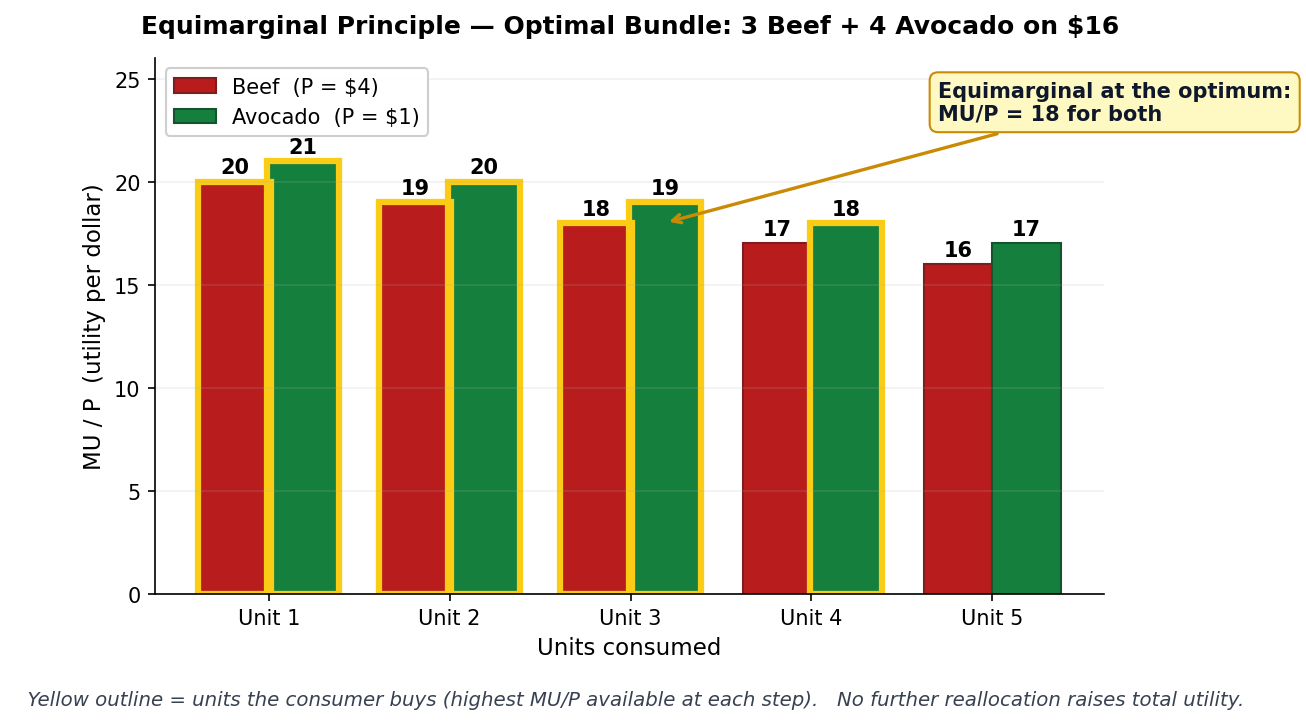
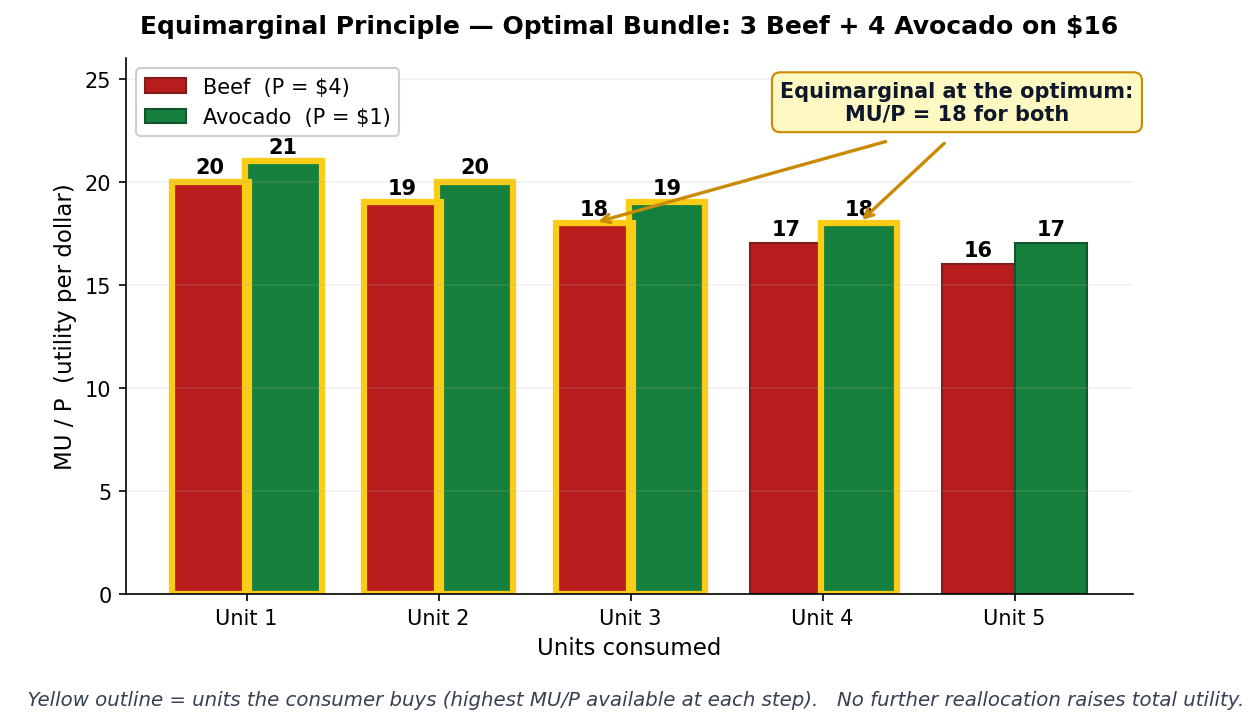
ch08: step-by-step fragments + arrow + readability fixes
1. Slide 57 (mu-per-dollar-tables) — 3-step reveal:
   step 1: beef MU/P column fills in
   step 2: avocado MU/P column fills in
   step 3: KEY METRIC callout appears

2. Slide 58 (mu-per-dollar-bundle) — 8-step reveal:
   pick badges 1-7 appear in MU/$ order (1st avo → 1st beef →
   2nd avo → 2nd beef → 3rd avo → 3rd beef → 4th avo), then the
   "Optimal Bundle" callout

3. Slide 61 (beef-avo equimarginal picture) — fixed annotation
   to point to BOTH the 3rd beef bar AND the 4th avocado bar
   (was pointing to only one). Both have MU/P = 18 = equimarginal.

4. Slide 63 (maya-you-try) — yellow "MU/P stream = ?" and
   "MU/P night = ?" header cells were rendering with the default
   white th text color → invisible on yellow bg. Added explicit
   color: #0f172a (dark slate) so students can read the prompt.

diff --git a/econ1116/ch08-consumer-choice/index.html b/econ1116/ch08-consumer-choice/index.html
@@ -2073,11 +2073,11 @@ The punchline — "variety in the middle" — previews two later concepts: (a) c
       <table style="width: 100%; border-collapse: collapse; font-family: 'SF Mono', Menlo, monospace; font-size: 12pt; background: #fff; box-shadow: 0 1px 3px rgba(0,0,0,0.08);">
         <thead><tr style="background: #fef2f2;"><th style="padding: 5px 8px; font-family: var(--body-font); font-weight: 700;">Q</th><th style="padding: 5px 8px; font-family: var(--body-font); font-weight: 700;">TU</th><th style="padding: 5px 8px; font-family: var(--body-font); font-weight: 700;">MU</th><th style="padding: 5px 8px; font-family: var(--body-font); font-weight: 700;">MU / P</th></tr></thead>
         <tbody>
-          <tr style="border-bottom: 1px solid var(--line-color);"><td style="text-align: center; padding: 6px;">1</td><td style="text-align: center; padding: 6px;">80</td><td style="text-align: center; padding: 6px;">80</td><td style="text-align: center; padding: 6px; color: #b91c1c; font-weight: 700;">80/4 = 20</td></tr>
-          <tr style="background: #fafafa; border-bottom: 1px solid var(--line-color);"><td style="text-align: center; padding: 6px;">2</td><td style="text-align: center; padding: 6px;">156</td><td style="text-align: center; padding: 6px;">76</td><td style="text-align: center; padding: 6px; color: #b91c1c; font-weight: 700;">76/4 = 19</td></tr>
-          <tr style="border-bottom: 1px solid var(--line-color);"><td style="text-align: center; padding: 6px;">3</td><td style="text-align: center; padding: 6px;">228</td><td style="text-align: center; padding: 6px;">72</td><td style="text-align: center; padding: 6px; color: #b91c1c; font-weight: 700;">72/4 = 18</td></tr>
-          <tr style="background: #fafafa; border-bottom: 1px solid var(--line-color);"><td style="text-align: center; padding: 6px;">4</td><td style="text-align: center; padding: 6px;">296</td><td style="text-align: center; padding: 6px;">68</td><td style="text-align: center; padding: 6px; color: #b91c1c; font-weight: 700;">68/4 = 17</td></tr>
-          <tr><td style="text-align: center; padding: 6px;">5</td><td style="text-align: center; padding: 6px;">360</td><td style="text-align: center; padding: 6px;">64</td><td style="text-align: center; padding: 6px; color: #b91c1c; font-weight: 700;">64/4 = 16</td></tr>
+          <tr style="border-bottom: 1px solid var(--line-color);"><td style="text-align: center; padding: 6px;">1</td><td style="text-align: center; padding: 6px;">80</td><td style="text-align: center; padding: 6px;">80</td><td class="fragment fade-in" data-fragment-index="1" style="text-align: center; padding: 6px; color: #b91c1c; font-weight: 700;">80/4 = 20</td></tr>
+          <tr style="background: #fafafa; border-bottom: 1px solid var(--line-color);"><td style="text-align: center; padding: 6px;">2</td><td style="text-align: center; padding: 6px;">156</td><td style="text-align: center; padding: 6px;">76</td><td class="fragment fade-in" data-fragment-index="1" style="text-align: center; padding: 6px; color: #b91c1c; font-weight: 700;">76/4 = 19</td></tr>
+          <tr style="border-bottom: 1px solid var(--line-color);"><td style="text-align: center; padding: 6px;">3</td><td style="text-align: center; padding: 6px;">228</td><td style="text-align: center; padding: 6px;">72</td><td class="fragment fade-in" data-fragment-index="1" style="text-align: center; padding: 6px; color: #b91c1c; font-weight: 700;">72/4 = 18</td></tr>
+          <tr style="background: #fafafa; border-bottom: 1px solid var(--line-color);"><td style="text-align: center; padding: 6px;">4</td><td style="text-align: center; padding: 6px;">296</td><td style="text-align: center; padding: 6px;">68</td><td class="fragment fade-in" data-fragment-index="1" style="text-align: center; padding: 6px; color: #b91c1c; font-weight: 700;">68/4 = 17</td></tr>
+          <tr><td style="text-align: center; padding: 6px;">5</td><td style="text-align: center; padding: 6px;">360</td><td style="text-align: center; padding: 6px;">64</td><td class="fragment fade-in" data-fragment-index="1" style="text-align: center; padding: 6px; color: #b91c1c; font-weight: 700;">64/4 = 16</td></tr>
         </tbody>
       </table>
     </div>
@@ -2086,16 +2086,16 @@ The punchline — "variety in the middle" — previews two later concepts: (a) c
       <table style="width: 100%; border-collapse: collapse; font-family: 'SF Mono', Menlo, monospace; font-size: 12pt; background: #fff; box-shadow: 0 1px 3px rgba(0,0,0,0.08);">
         <thead><tr style="background: #f0fdf4;"><th style="padding: 5px 8px; font-family: var(--body-font); font-weight: 700;">Q</th><th style="padding: 5px 8px; font-family: var(--body-font); font-weight: 700;">TU</th><th style="padding: 5px 8px; font-family: var(--body-font); font-weight: 700;">MU</th><th style="padding: 5px 8px; font-family: var(--body-font); font-weight: 700;">MU / P</th></tr></thead>
         <tbody>
-          <tr style="border-bottom: 1px solid var(--line-color);"><td style="text-align: center; padding: 6px;">1</td><td style="text-align: center; padding: 6px;">21</td><td style="text-align: center; padding: 6px;">21</td><td style="text-align: center; padding: 6px; color: #15803d; font-weight: 700;">21/1 = 21</td></tr>
-          <tr style="background: #fafafa; border-bottom: 1px solid var(--line-color);"><td style="text-align: center; padding: 6px;">2</td><td style="text-align: center; padding: 6px;">41</td><td style="text-align: center; padding: 6px;">20</td><td style="text-align: center; padding: 6px; color: #15803d; font-weight: 700;">20/1 = 20</td></tr>
-          <tr style="border-bottom: 1px solid var(--line-color);"><td style="text-align: center; padding: 6px;">3</td><td style="text-align: center; padding: 6px;">60</td><td style="text-align: center; padding: 6px;">19</td><td style="text-align: center; padding: 6px; color: #15803d; font-weight: 700;">19/1 = 19</td></tr>
-          <tr style="background: #fafafa; border-bottom: 1px solid var(--line-color);"><td style="text-align: center; padding: 6px;">4</td><td style="text-align: center; padding: 6px;">78</td><td style="text-align: center; padding: 6px;">18</td><td style="text-align: center; padding: 6px; color: #15803d; font-weight: 700;">18/1 = 18</td></tr>
-          <tr><td style="text-align: center; padding: 6px;">5</td><td style="text-align: center; padding: 6px;">95</td><td style="text-align: center; padding: 6px;">17</td><td style="text-align: center; padding: 6px; color: #15803d; font-weight: 700;">17/1 = 17</td></tr>
+          <tr style="border-bottom: 1px solid var(--line-color);"><td style="text-align: center; padding: 6px;">1</td><td style="text-align: center; padding: 6px;">21</td><td style="text-align: center; padding: 6px;">21</td><td class="fragment fade-in" data-fragment-index="2" style="text-align: center; padding: 6px; color: #15803d; font-weight: 700;">21/1 = 21</td></tr>
+          <tr style="background: #fafafa; border-bottom: 1px solid var(--line-color);"><td style="text-align: center; padding: 6px;">2</td><td style="text-align: center; padding: 6px;">41</td><td style="text-align: center; padding: 6px;">20</td><td class="fragment fade-in" data-fragment-index="2" style="text-align: center; padding: 6px; color: #15803d; font-weight: 700;">20/1 = 20</td></tr>
+          <tr style="border-bottom: 1px solid var(--line-color);"><td style="text-align: center; padding: 6px;">3</td><td style="text-align: center; padding: 6px;">60</td><td style="text-align: center; padding: 6px;">19</td><td class="fragment fade-in" data-fragment-index="2" style="text-align: center; padding: 6px; color: #15803d; font-weight: 700;">19/1 = 19</td></tr>
+          <tr style="background: #fafafa; border-bottom: 1px solid var(--line-color);"><td style="text-align: center; padding: 6px;">4</td><td style="text-align: center; padding: 6px;">78</td><td style="text-align: center; padding: 6px;">18</td><td class="fragment fade-in" data-fragment-index="2" style="text-align: center; padding: 6px; color: #15803d; font-weight: 700;">18/1 = 18</td></tr>
+          <tr><td style="text-align: center; padding: 6px;">5</td><td style="text-align: center; padding: 6px;">95</td><td style="text-align: center; padding: 6px;">17</td><td class="fragment fade-in" data-fragment-index="2" style="text-align: center; padding: 6px; color: #15803d; font-weight: 700;">17/1 = 17</td></tr>
         </tbody>
       </table>
     </div>
   </div>
-  <div style="background: #fff7ed; border-radius: 8px; padding: 10px 22px; border-left: 4px solid var(--accent-color); margin-top: 12px; text-align: center;">
+  <div class="fragment fade-up" data-fragment-index="3" style="background: #fff7ed; border-radius: 8px; padding: 10px 22px; border-left: 4px solid var(--accent-color); margin-top: 12px; text-align: center;">
     <p style="font-size: 14pt; margin: 0;"><strong>KEY METRIC:</strong> compare <strong>MU per dollar</strong> = MU / Price across goods &mdash; not raw MU.</p>
   </div>
   <aside class="notes">Numbers continue the beef + avocado MU schedules from c/t 25-27 (rows 5 added: beef TU 360 MU 64; avocado TU 95 MU 17). The MU/P column normalizes by price. Note that avocado&rsquo;s 1st-unit MU/P (21) BEATS beef&rsquo;s 1st-unit MU/P (20) even though raw MU is much smaller &mdash; because avocado is 4&times; cheaper. Raw MU is misleading; MU/P is the right comparison.</aside>
@@ -2113,9 +2113,9 @@ The punchline — "variety in the middle" — previews two later concepts: (a) c
           <div style="background: #b91c1c; color: #fff; padding: 5px; text-align: center; font-size: 11pt; font-weight: 700; border-radius: 4px 4px 0 0;">Beef ($4)</div>
           <table style="width: 100%; border-collapse: collapse; font-family: 'SF Mono', Menlo, monospace; font-size: 12pt; background: #fff; border: 1px solid var(--line-color);">
             <tbody>
-              <tr style="border-bottom: 1px solid var(--line-color); background: #fef9c3;"><td style="padding: 5px 8px; text-align: center;">1<sup>st</sup></td><td style="padding: 5px 8px; text-align: center; font-weight: 700;">20 <span style="background:#b91c1c; color:#fff; border-radius:50%; padding: 0 6px; font-size:10pt; margin-left:4px;">2</span></td></tr>
-              <tr style="border-bottom: 1px solid var(--line-color); background: #fef9c3;"><td style="padding: 5px 8px; text-align: center;">2<sup>nd</sup></td><td style="padding: 5px 8px; text-align: center; font-weight: 700;">19 <span style="background:#b91c1c; color:#fff; border-radius:50%; padding: 0 6px; font-size:10pt; margin-left:4px;">4</span></td></tr>
-              <tr style="border-bottom: 1px solid var(--line-color); background: #fef9c3;"><td style="padding: 5px 8px; text-align: center;">3<sup>rd</sup></td><td style="padding: 5px 8px; text-align: center; font-weight: 700;">18 <span style="background:#b91c1c; color:#fff; border-radius:50%; padding: 0 6px; font-size:10pt; margin-left:4px;">6</span></td></tr>
+              <tr style="border-bottom: 1px solid var(--line-color); background: #fef9c3;"><td style="padding: 5px 8px; text-align: center;">1<sup>st</sup></td><td style="padding: 5px 8px; text-align: center; font-weight: 700;">20 <span class="fragment fade-in" data-fragment-index="2" style="background:#b91c1c; color:#fff; border-radius:50%; padding: 0 6px; font-size:10pt; margin-left:4px;">2</span></td></tr>
+              <tr style="border-bottom: 1px solid var(--line-color); background: #fef9c3;"><td style="padding: 5px 8px; text-align: center;">2<sup>nd</sup></td><td style="padding: 5px 8px; text-align: center; font-weight: 700;">19 <span class="fragment fade-in" data-fragment-index="4" style="background:#b91c1c; color:#fff; border-radius:50%; padding: 0 6px; font-size:10pt; margin-left:4px;">4</span></td></tr>
+              <tr style="border-bottom: 1px solid var(--line-color); background: #fef9c3;"><td style="padding: 5px 8px; text-align: center;">3<sup>rd</sup></td><td style="padding: 5px 8px; text-align: center; font-weight: 700;">18 <span class="fragment fade-in" data-fragment-index="6" style="background:#b91c1c; color:#fff; border-radius:50%; padding: 0 6px; font-size:10pt; margin-left:4px;">6</span></td></tr>
               <tr style="border-bottom: 1px solid var(--line-color);"><td style="padding: 5px 8px; text-align: center;">4<sup>th</sup></td><td style="padding: 5px 8px; text-align: center;">17</td></tr>
               <tr><td style="padding: 5px 8px; text-align: center;">5<sup>th</sup></td><td style="padding: 5px 8px; text-align: center;">16</td></tr>
             </tbody>
@@ -2125,10 +2125,10 @@ The punchline — "variety in the middle" — previews two later concepts: (a) c
           <div style="background: #15803d; color: #fff; padding: 5px; text-align: center; font-size: 11pt; font-weight: 700; border-radius: 4px 4px 0 0;">Avocado ($1)</div>
           <table style="width: 100%; border-collapse: collapse; font-family: 'SF Mono', Menlo, monospace; font-size: 12pt; background: #fff; border: 1px solid var(--line-color);">
             <tbody>
-              <tr style="border-bottom: 1px solid var(--line-color); background: #ecfccb;"><td style="padding: 5px 8px; text-align: center;">1<sup>st</sup></td><td style="padding: 5px 8px; text-align: center; font-weight: 700;">21 <span style="background:#15803d; color:#fff; border-radius:50%; padding: 0 6px; font-size:10pt; margin-left:4px;">1</span></td></tr>
-              <tr style="border-bottom: 1px solid var(--line-color); background: #ecfccb;"><td style="padding: 5px 8px; text-align: center;">2<sup>nd</sup></td><td style="padding: 5px 8px; text-align: center; font-weight: 700;">20 <span style="background:#15803d; color:#fff; border-radius:50%; padding: 0 6px; font-size:10pt; margin-left:4px;">3</span></td></tr>
-              <tr style="border-bottom: 1px solid var(--line-color); background: #ecfccb;"><td style="padding: 5px 8px; text-align: center;">3<sup>rd</sup></td><td style="padding: 5px 8px; text-align: center; font-weight: 700;">19 <span style="background:#15803d; color:#fff; border-radius:50%; padding: 0 6px; font-size:10pt; margin-left:4px;">5</span></td></tr>
-              <tr style="border-bottom: 1px solid var(--line-color); background: #ecfccb;"><td style="padding: 5px 8px; text-align: center;">4<sup>th</sup></td><td style="padding: 5px 8px; text-align: center; font-weight: 700;">18 <span style="background:#15803d; color:#fff; border-radius:50%; padding: 0 6px; font-size:10pt; margin-left:4px;">7</span></td></tr>
+              <tr style="border-bottom: 1px solid var(--line-color); background: #ecfccb;"><td style="padding: 5px 8px; text-align: center;">1<sup>st</sup></td><td style="padding: 5px 8px; text-align: center; font-weight: 700;">21 <span class="fragment fade-in" data-fragment-index="1" style="background:#15803d; color:#fff; border-radius:50%; padding: 0 6px; font-size:10pt; margin-left:4px;">1</span></td></tr>
+              <tr style="border-bottom: 1px solid var(--line-color); background: #ecfccb;"><td style="padding: 5px 8px; text-align: center;">2<sup>nd</sup></td><td style="padding: 5px 8px; text-align: center; font-weight: 700;">20 <span class="fragment fade-in" data-fragment-index="3" style="background:#15803d; color:#fff; border-radius:50%; padding: 0 6px; font-size:10pt; margin-left:4px;">3</span></td></tr>
+              <tr style="border-bottom: 1px solid var(--line-color); background: #ecfccb;"><td style="padding: 5px 8px; text-align: center;">3<sup>rd</sup></td><td style="padding: 5px 8px; text-align: center; font-weight: 700;">19 <span class="fragment fade-in" data-fragment-index="5" style="background:#15803d; color:#fff; border-radius:50%; padding: 0 6px; font-size:10pt; margin-left:4px;">5</span></td></tr>
+              <tr style="border-bottom: 1px solid var(--line-color); background: #ecfccb;"><td style="padding: 5px 8px; text-align: center;">4<sup>th</sup></td><td style="padding: 5px 8px; text-align: center; font-weight: 700;">18 <span class="fragment fade-in" data-fragment-index="7" style="background:#15803d; color:#fff; border-radius:50%; padding: 0 6px; font-size:10pt; margin-left:4px;">7</span></td></tr>
               <tr><td style="padding: 5px 8px; text-align: center;">5<sup>th</sup></td><td style="padding: 5px 8px; text-align: center;">17</td></tr>
             </tbody>
           </table>
@@ -2139,7 +2139,7 @@ The punchline — "variety in the middle" — previews two later concepts: (a) c
     <div style="background: #f8f6f3; border-radius: 10px; padding: 14px 18px;">
       <p style="font-size: 14pt; font-weight: 700; text-align: center; margin: 0 0 10px; color: var(--primary-color);">BUDGET IN YOUR POCKET &rarr; <span style="color: var(--success-color);">$16</span></p>
       <p style="font-size: 12pt; line-height: 1.6; margin: 0 0 10px; text-align: center;">Spend the 1st $ on the highest-ranked unit (1<sup>st</sup> avocado, MU/$=21).<br>Then the 2nd, 3rd, &hellip; 7th highest. Budget runs out after 4 avocados + 3 beef.</p>
-      <div style="background: #f0fdf4; border-radius: 8px; padding: 10px 14px; border: 2px solid var(--success-color); margin-top: 8px; text-align: center;">
+      <div class="fragment fade-up" data-fragment-index="8" style="background: #f0fdf4; border-radius: 8px; padding: 10px 14px; border: 2px solid var(--success-color); margin-top: 8px; text-align: center;">
         <p style="font-size: 12pt; font-weight: 700; color: var(--success-color); text-transform: uppercase; letter-spacing: 0.05em; margin: 0 0 4px;">Optimal Bundle</p>
         <p style="font-size: 16pt; margin: 0; font-weight: 700; color: var(--primary-color);">3 beef <i class="fa-solid fa-drumstick-bite" style="color:#b91c1c; font-size:14pt;"></i> + 4 avocado <i class="fa-solid fa-leaf" style="color:#15803d; font-size:14pt;"></i></p>
         <p style="font-size: 12pt; margin: 4px 0 0; color: var(--muted-color);">$12 + $4 = $16 &nbsp;&middot;&nbsp; TU = 228 + 78 = <strong>306</strong></p>
@@ -2252,9 +2252,9 @@ The punchline — "variety in the middle" — previews two later concepts: (a) c
    <tr style="background: #f8f6f3;">
     <th style="text-align: left; padding: 8px 12px; border-bottom: 2px solid var(--line-color);">Unit</th>
     <th style="text-align: right; padding: 8px 12px; border-bottom: 2px solid var(--line-color);">MU stream</th>
-    <th style="text-align: right; padding: 8px 12px; border-bottom: 2px solid var(--line-color); background: #fef9c3;"><strong>MU/P stream = ?</strong></th>
+    <th style="text-align: right; padding: 8px 12px; border-bottom: 2px solid var(--line-color); background: #fef9c3; color: #0f172a;"><strong>MU/P stream = ?</strong></th>
     <th style="text-align: right; padding: 8px 12px; border-bottom: 2px solid var(--line-color);">MU night</th>
-    <th style="text-align: right; padding: 8px 12px; border-bottom: 2px solid var(--line-color); background: #fef9c3;"><strong>MU/P night = ?</strong></th>
+    <th style="text-align: right; padding: 8px 12px; border-bottom: 2px solid var(--line-color); background: #fef9c3; color: #0f172a;"><strong>MU/P night = ?</strong></th>
    </tr>
   </thead>
   <tbody style="font-family: 'SF Mono', Menlo, monospace;">

diff --git a/econ1116/ch08-consumer-choice/presentation.html b/econ1116/ch08-consumer-choice/presentation.html
@@ -2073,11 +2073,11 @@ The punchline — "variety in the middle" — previews two later concepts: (a) c
       <table style="width: 100%; border-collapse: collapse; font-family: 'SF Mono', Menlo, monospace; font-size: 12pt; background: #fff; box-shadow: 0 1px 3px rgba(0,0,0,0.08);">
         <thead><tr style="background: #fef2f2;"><th style="padding: 5px 8px; font-family: var(--body-font); font-weight: 700;">Q</th><th style="padding: 5px 8px; font-family: var(--body-font); font-weight: 700;">TU</th><th style="padding: 5px 8px; font-family: var(--body-font); font-weight: 700;">MU</th><th style="padding: 5px 8px; font-family: var(--body-font); font-weight: 700;">MU / P</th></tr></thead>
         <tbody>
-          <tr style="border-bottom: 1px solid var(--line-color);"><td style="text-align: center; padding: 6px;">1</td><td style="text-align: center; padding: 6px;">80</td><td style="text-align: center; padding: 6px;">80</td><td style="text-align: center; padding: 6px; color: #b91c1c; font-weight: 700;">80/4 = 20</td></tr>
-          <tr style="background: #fafafa; border-bottom: 1px solid var(--line-color);"><td style="text-align: center; padding: 6px;">2</td><td style="text-align: center; padding: 6px;">156</td><td style="text-align: center; padding: 6px;">76</td><td style="text-align: center; padding: 6px; color: #b91c1c; font-weight: 700;">76/4 = 19</td></tr>
-          <tr style="border-bottom: 1px solid var(--line-color);"><td style="text-align: center; padding: 6px;">3</td><td style="text-align: center; padding: 6px;">228</td><td style="text-align: center; padding: 6px;">72</td><td style="text-align: center; padding: 6px; color: #b91c1c; font-weight: 700;">72/4 = 18</td></tr>
-          <tr style="background: #fafafa; border-bottom: 1px solid var(--line-color);"><td style="text-align: center; padding: 6px;">4</td><td style="text-align: center; padding: 6px;">296</td><td style="text-align: center; padding: 6px;">68</td><td style="text-align: center; padding: 6px; color: #b91c1c; font-weight: 700;">68/4 = 17</td></tr>
-          <tr><td style="text-align: center; padding: 6px;">5</td><td style="text-align: center; padding: 6px;">360</td><td style="text-align: center; padding: 6px;">64</td><td style="text-align: center; padding: 6px; color: #b91c1c; font-weight: 700;">64/4 = 16</td></tr>
+          <tr style="border-bottom: 1px solid var(--line-color);"><td style="text-align: center; padding: 6px;">1</td><td style="text-align: center; padding: 6px;">80</td><td style="text-align: center; padding: 6px;">80</td><td class="fragment fade-in" data-fragment-index="1" style="text-align: center; padding: 6px; color: #b91c1c; font-weight: 700;">80/4 = 20</td></tr>
+          <tr style="background: #fafafa; border-bottom: 1px solid var(--line-color);"><td style="text-align: center; padding: 6px;">2</td><td style="text-align: center; padding: 6px;">156</td><td style="text-align: center; padding: 6px;">76</td><td class="fragment fade-in" data-fragment-index="1" style="text-align: center; padding: 6px; color: #b91c1c; font-weight: 700;">76/4 = 19</td></tr>
+          <tr style="border-bottom: 1px solid var(--line-color);"><td style="text-align: center; padding: 6px;">3</td><td style="text-align: center; padding: 6px;">228</td><td style="text-align: center; padding: 6px;">72</td><td class="fragment fade-in" data-fragment-index="1" style="text-align: center; padding: 6px; color: #b91c1c; font-weight: 700;">72/4 = 18</td></tr>
+          <tr style="background: #fafafa; border-bottom: 1px solid var(--line-color);"><td style="text-align: center; padding: 6px;">4</td><td style="text-align: center; padding: 6px;">296</td><td style="text-align: center; padding: 6px;">68</td><td class="fragment fade-in" data-fragment-index="1" style="text-align: center; padding: 6px; color: #b91c1c; font-weight: 700;">68/4 = 17</td></tr>
+          <tr><td style="text-align: center; padding: 6px;">5</td><td style="text-align: center; padding: 6px;">360</td><td style="text-align: center; padding: 6px;">64</td><td class="fragment fade-in" data-fragment-index="1" style="text-align: center; padding: 6px; color: #b91c1c; font-weight: 700;">64/4 = 16</td></tr>
         </tbody>
       </table>
     </div>
@@ -2086,16 +2086,16 @@ The punchline — "variety in the middle" — previews two later concepts: (a) c
       <table style="width: 100%; border-collapse: collapse; font-family: 'SF Mono', Menlo, monospace; font-size: 12pt; background: #fff; box-shadow: 0 1px 3px rgba(0,0,0,0.08);">
         <thead><tr style="background: #f0fdf4;"><th style="padding: 5px 8px; font-family: var(--body-font); font-weight: 700;">Q</th><th style="padding: 5px 8px; font-family: var(--body-font); font-weight: 700;">TU</th><th style="padding: 5px 8px; font-family: var(--body-font); font-weight: 700;">MU</th><th style="padding: 5px 8px; font-family: var(--body-font); font-weight: 700;">MU / P</th></tr></thead>
         <tbody>
-          <tr style="border-bottom: 1px solid var(--line-color);"><td style="text-align: center; padding: 6px;">1</td><td style="text-align: center; padding: 6px;">21</td><td style="text-align: center; padding: 6px;">21</td><td style="text-align: center; padding: 6px; color: #15803d; font-weight: 700;">21/1 = 21</td></tr>
-          <tr style="background: #fafafa; border-bottom: 1px solid var(--line-color);"><td style="text-align: center; padding: 6px;">2</td><td style="text-align: center; padding: 6px;">41</td><td style="text-align: center; padding: 6px;">20</td><td style="text-align: center; padding: 6px; color: #15803d; font-weight: 700;">20/1 = 20</td></tr>
-          <tr style="border-bottom: 1px solid var(--line-color);"><td style="text-align: center; padding: 6px;">3</td><td style="text-align: center; padding: 6px;">60</td><td style="text-align: center; padding: 6px;">19</td><td style="text-align: center; padding: 6px; color: #15803d; font-weight: 700;">19/1 = 19</td></tr>
-          <tr style="background: #fafafa; border-bottom: 1px solid var(--line-color);"><td style="text-align: center; padding: 6px;">4</td><td style="text-align: center; padding: 6px;">78</td><td style="text-align: center; padding: 6px;">18</td><td style="text-align: center; padding: 6px; color: #15803d; font-weight: 700;">18/1 = 18</td></tr>
-          <tr><td style="text-align: center; padding: 6px;">5</td><td style="text-align: center; padding: 6px;">95</td><td style="text-align: center; padding: 6px;">17</td><td style="text-align: center; padding: 6px; color: #15803d; font-weight: 700;">17/1 = 17</td></tr>
+          <tr style="border-bottom: 1px solid var(--line-color);"><td style="text-align: center; padding: 6px;">1</td><td style="text-align: center; padding: 6px;">21</td><td style="text-align: center; padding: 6px;">21</td><td class="fragment fade-in" data-fragment-index="2" style="text-align: center; padding: 6px; color: #15803d; font-weight: 700;">21/1 = 21</td></tr>
+          <tr style="background: #fafafa; border-bottom: 1px solid var(--line-color);"><td style="text-align: center; padding: 6px;">2</td><td style="text-align: center; padding: 6px;">41</td><td style="text-align: center; padding: 6px;">20</td><td class="fragment fade-in" data-fragment-index="2" style="text-align: center; padding: 6px; color: #15803d; font-weight: 700;">20/1 = 20</td></tr>
+          <tr style="border-bottom: 1px solid var(--line-color);"><td style="text-align: center; padding: 6px;">3</td><td style="text-align: center; padding: 6px;">60</td><td style="text-align: center; padding: 6px;">19</td><td class="fragment fade-in" data-fragment-index="2" style="text-align: center; padding: 6px; color: #15803d; font-weight: 700;">19/1 = 19</td></tr>
+          <tr style="background: #fafafa; border-bottom: 1px solid var(--line-color);"><td style="text-align: center; padding: 6px;">4</td><td style="text-align: center; padding: 6px;">78</td><td style="text-align: center; padding: 6px;">18</td><td class="fragment fade-in" data-fragment-index="2" style="text-align: center; padding: 6px; color: #15803d; font-weight: 700;">18/1 = 18</td></tr>
+          <tr><td style="text-align: center; padding: 6px;">5</td><td style="text-align: center; padding: 6px;">95</td><td style="text-align: center; padding: 6px;">17</td><td class="fragment fade-in" data-fragment-index="2" style="text-align: center; padding: 6px; color: #15803d; font-weight: 700;">17/1 = 17</td></tr>
         </tbody>
       </table>
     </div>
   </div>
-  <div style="background: #fff7ed; border-radius: 8px; padding: 10px 22px; border-left: 4px solid var(--accent-color); margin-top: 12px; text-align: center;">
+  <div class="fragment fade-up" data-fragment-index="3" style="background: #fff7ed; border-radius: 8px; padding: 10px 22px; border-left: 4px solid var(--accent-color); margin-top: 12px; text-align: center;">
     <p style="font-size: 14pt; margin: 0;"><strong>KEY METRIC:</strong> compare <strong>MU per dollar</strong> = MU / Price across goods &mdash; not raw MU.</p>
   </div>
   <aside class="notes">Numbers continue the beef + avocado MU schedules from c/t 25-27 (rows 5 added: beef TU 360 MU 64; avocado TU 95 MU 17). The MU/P column normalizes by price. Note that avocado&rsquo;s 1st-unit MU/P (21) BEATS beef&rsquo;s 1st-unit MU/P (20) even though raw MU is much smaller &mdash; because avocado is 4&times; cheaper. Raw MU is misleading; MU/P is the right comparison.</aside>
@@ -2113,9 +2113,9 @@ The punchline — "variety in the middle" — previews two later concepts: (a) c
           <div style="background: #b91c1c; color: #fff; padding: 5px; text-align: center; font-size: 11pt; font-weight: 700; border-radius: 4px 4px 0 0;">Beef ($4)</div>
           <table style="width: 100%; border-collapse: collapse; font-family: 'SF Mono', Menlo, monospace; font-size: 12pt; background: #fff; border: 1px solid var(--line-color);">
             <tbody>
-              <tr style="border-bottom: 1px solid var(--line-color); background: #fef9c3;"><td style="padding: 5px 8px; text-align: center;">1<sup>st</sup></td><td style="padding: 5px 8px; text-align: center; font-weight: 700;">20 <span style="background:#b91c1c; color:#fff; border-radius:50%; padding: 0 6px; font-size:10pt; margin-left:4px;">2</span></td></tr>
-              <tr style="border-bottom: 1px solid var(--line-color); background: #fef9c3;"><td style="padding: 5px 8px; text-align: center;">2<sup>nd</sup></td><td style="padding: 5px 8px; text-align: center; font-weight: 700;">19 <span style="background:#b91c1c; color:#fff; border-radius:50%; padding: 0 6px; font-size:10pt; margin-left:4px;">4</span></td></tr>
-              <tr style="border-bottom: 1px solid var(--line-color); background: #fef9c3;"><td style="padding: 5px 8px; text-align: center;">3<sup>rd</sup></td><td style="padding: 5px 8px; text-align: center; font-weight: 700;">18 <span style="background:#b91c1c; color:#fff; border-radius:50%; padding: 0 6px; font-size:10pt; margin-left:4px;">6</span></td></tr>
+              <tr style="border-bottom: 1px solid var(--line-color); background: #fef9c3;"><td style="padding: 5px 8px; text-align: center;">1<sup>st</sup></td><td style="padding: 5px 8px; text-align: center; font-weight: 700;">20 <span class="fragment fade-in" data-fragment-index="2" style="background:#b91c1c; color:#fff; border-radius:50%; padding: 0 6px; font-size:10pt; margin-left:4px;">2</span></td></tr>
+              <tr style="border-bottom: 1px solid var(--line-color); background: #fef9c3;"><td style="padding: 5px 8px; text-align: center;">2<sup>nd</sup></td><td style="padding: 5px 8px; text-align: center; font-weight: 700;">19 <span class="fragment fade-in" data-fragment-index="4" style="background:#b91c1c; color:#fff; border-radius:50%; padding: 0 6px; font-size:10pt; margin-left:4px;">4</span></td></tr>
+              <tr style="border-bottom: 1px solid var(--line-color); background: #fef9c3;"><td style="padding: 5px 8px; text-align: center;">3<sup>rd</sup></td><td style="padding: 5px 8px; text-align: center; font-weight: 700;">18 <span class="fragment fade-in" data-fragment-index="6" style="background:#b91c1c; color:#fff; border-radius:50%; padding: 0 6px; font-size:10pt; margin-left:4px;">6</span></td></tr>
               <tr style="border-bottom: 1px solid var(--line-color);"><td style="padding: 5px 8px; text-align: center;">4<sup>th</sup></td><td style="padding: 5px 8px; text-align: center;">17</td></tr>
               <tr><td style="padding: 5px 8px; text-align: center;">5<sup>th</sup></td><td style="padding: 5px 8px; text-align: center;">16</td></tr>
             </tbody>
@@ -2125,10 +2125,10 @@ The punchline — "variety in the middle" — previews two later concepts: (a) c
           <div style="background: #15803d; color: #fff; padding: 5px; text-align: center; font-size: 11pt; font-weight: 700; border-radius: 4px 4px 0 0;">Avocado ($1)</div>
           <table style="width: 100%; border-collapse: collapse; font-family: 'SF Mono', Menlo, monospace; font-size: 12pt; background: #fff; border: 1px solid var(--line-color);">
             <tbody>
-              <tr style="border-bottom: 1px solid var(--line-color); background: #ecfccb;"><td style="padding: 5px 8px; text-align: center;">1<sup>st</sup></td><td style="padding: 5px 8px; text-align: center; font-weight: 700;">21 <span style="background:#15803d; color:#fff; border-radius:50%; padding: 0 6px; font-size:10pt; margin-left:4px;">1</span></td></tr>
-              <tr style="border-bottom: 1px solid var(--line-color); background: #ecfccb;"><td style="padding: 5px 8px; text-align: center;">2<sup>nd</sup></td><td style="padding: 5px 8px; text-align: center; font-weight: 700;">20 <span style="background:#15803d; color:#fff; border-radius:50%; padding: 0 6px; font-size:10pt; margin-left:4px;">3</span></td></tr>
-              <tr style="border-bottom: 1px solid var(--line-color); background: #ecfccb;"><td style="padding: 5px 8px; text-align: center;">3<sup>rd</sup></td><td style="padding: 5px 8px; text-align: center; font-weight: 700;">19 <span style="background:#15803d; color:#fff; border-radius:50%; padding: 0 6px; font-size:10pt; margin-left:4px;">5</span></td></tr>
-              <tr style="border-bottom: 1px solid var(--line-color); background: #ecfccb;"><td style="padding: 5px 8px; text-align: center;">4<sup>th</sup></td><td style="padding: 5px 8px; text-align: center; font-weight: 700;">18 <span style="background:#15803d; color:#fff; border-radius:50%; padding: 0 6px; font-size:10pt; margin-left:4px;">7</span></td></tr>
+              <tr style="border-bottom: 1px solid var(--line-color); background: #ecfccb;"><td style="padding: 5px 8px; text-align: center;">1<sup>st</sup></td><td style="padding: 5px 8px; text-align: center; font-weight: 700;">21 <span class="fragment fade-in" data-fragment-index="1" style="background:#15803d; color:#fff; border-radius:50%; padding: 0 6px; font-size:10pt; margin-left:4px;">1</span></td></tr>
+              <tr style="border-bottom: 1px solid var(--line-color); background: #ecfccb;"><td style="padding: 5px 8px; text-align: center;">2<sup>nd</sup></td><td style="padding: 5px 8px; text-align: center; font-weight: 700;">20 <span class="fragment fade-in" data-fragment-index="3" style="background:#15803d; color:#fff; border-radius:50%; padding: 0 6px; font-size:10pt; margin-left:4px;">3</span></td></tr>
+              <tr style="border-bottom: 1px solid var(--line-color); background: #ecfccb;"><td style="padding: 5px 8px; text-align: center;">3<sup>rd</sup></td><td style="padding: 5px 8px; text-align: center; font-weight: 700;">19 <span class="fragment fade-in" data-fragment-index="5" style="background:#15803d; color:#fff; border-radius:50%; padding: 0 6px; font-size:10pt; margin-left:4px;">5</span></td></tr>
+              <tr style="border-bottom: 1px solid var(--line-color); background: #ecfccb;"><td style="padding: 5px 8px; text-align: center;">4<sup>th</sup></td><td style="padding: 5px 8px; text-align: center; font-weight: 700;">18 <span class="fragment fade-in" data-fragment-index="7" style="background:#15803d; color:#fff; border-radius:50%; padding: 0 6px; font-size:10pt; margin-left:4px;">7</span></td></tr>
               <tr><td style="padding: 5px 8px; text-align: center;">5<sup>th</sup></td><td style="padding: 5px 8px; text-align: center;">17</td></tr>
             </tbody>
           </table>
@@ -2139,7 +2139,7 @@ The punchline — "variety in the middle" — previews two later concepts: (a) c
     <div style="background: #f8f6f3; border-radius: 10px; padding: 14px 18px;">
       <p style="font-size: 14pt; font-weight: 700; text-align: center; margin: 0 0 10px; color: var(--primary-color);">BUDGET IN YOUR POCKET &rarr; <span style="color: var(--success-color);">$16</span></p>
       <p style="font-size: 12pt; line-height: 1.6; margin: 0 0 10px; text-align: center;">Spend the 1st $ on the highest-ranked unit (1<sup>st</sup> avocado, MU/$=21).<br>Then the 2nd, 3rd, &hellip; 7th highest. Budget runs out after 4 avocados + 3 beef.</p>
-      <div style="background: #f0fdf4; border-radius: 8px; padding: 10px 14px; border: 2px solid var(--success-color); margin-top: 8px; text-align: center;">
+      <div class="fragment fade-up" data-fragment-index="8" style="background: #f0fdf4; border-radius: 8px; padding: 10px 14px; border: 2px solid var(--success-color); margin-top: 8px; text-align: center;">
         <p style="font-size: 12pt; font-weight: 700; color: var(--success-color); text-transform: uppercase; letter-spacing: 0.05em; margin: 0 0 4px;">Optimal Bundle</p>
         <p style="font-size: 16pt; margin: 0; font-weight: 700; color: var(--primary-color);">3 beef <i class="fa-solid fa-drumstick-bite" style="color:#b91c1c; font-size:14pt;"></i> + 4 avocado <i class="fa-solid fa-leaf" style="color:#15803d; font-size:14pt;"></i></p>
         <p style="font-size: 12pt; margin: 4px 0 0; color: var(--muted-color);">$12 + $4 = $16 &nbsp;&middot;&nbsp; TU = 228 + 78 = <strong>306</strong></p>
@@ -2252,9 +2252,9 @@ The punchline — "variety in the middle" — previews two later concepts: (a) c
    <tr style="background: #f8f6f3;">
     <th style="text-align: left; padding: 8px 12px; border-bottom: 2px solid var(--line-color);">Unit</th>
     <th style="text-align: right; padding: 8px 12px; border-bottom: 2px solid var(--line-color);">MU stream</th>
-    <th style="text-align: right; padding: 8px 12px; border-bottom: 2px solid var(--line-color); background: #fef9c3;"><strong>MU/P stream = ?</strong></th>
+    <th style="text-align: right; padding: 8px 12px; border-bottom: 2px solid var(--line-color); background: #fef9c3; color: #0f172a;"><strong>MU/P stream = ?</strong></th>
     <th style="text-align: right; padding: 8px 12px; border-bottom: 2px solid var(--line-color);">MU night</th>
-    <th style="text-align: right; padding: 8px 12px; border-bottom: 2px solid var(--line-color); background: #fef9c3;"><strong>MU/P night = ?</strong></th>
+    <th style="text-align: right; padding: 8px 12px; border-bottom: 2px solid var(--line-color); background: #fef9c3; color: #0f172a;"><strong>MU/P night = ?</strong></th>
    </tr>
   </thead>
   <tbody style="font-family: 'SF Mono', Menlo, monospace;">
